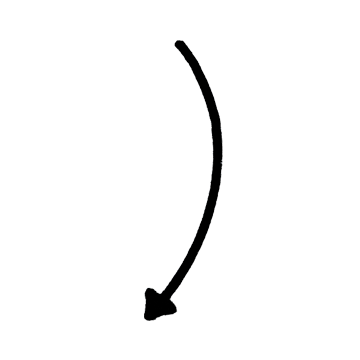
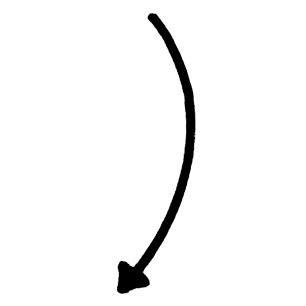
final adjustments

Changed region(s): [[0.3824, 0.0294, 0.6471, 0.9706]]

diff --git a/jv/llsf.html b/jv/llsf.html
@@ -27,7 +27,7 @@
 			<div id="Project" class="project">
 				<div class="width-container">
 					<div class="row">
-						<div class="img-container">
+						<div class="img-container more-padding">
 							<img src="images/LLSF-ph.jpg">
 						</div>
 						<div class="text text-400">
@@ -38,13 +38,11 @@
 						</div>
 					</div>
 					<div class="row">
-						<div class="column">
-							<div class="text text-400">
-								<h2>Posters</h2>
-								<p>In order to further develop the DIY and “punk” elements of the brand, posters were chosen as the best outlet to portray the importance of texture and media in the project. </p>
-								<div class="img-container" style="padding-left:0px;padding-right:0px;">
-									<img style="" src="images/llsf/LLSF-Painted.png" alt="">
-								</div>
+						<div class="text text-400">
+							<h2>Posters</h2>
+							<p>In order to further develop the DIY and “punk” elements of the brand, posters were chosen as the best outlet to portray the importance of texture and media in the project. </p>
+							<div class="img-container" style="padding-left:0px;padding-right:0px;">
+								<img style="" src="images/llsf/LLSF-Painted.png" alt="">
 							</div>
 						</div>
 						<div class="img-container">
@@ -90,8 +88,10 @@
 						<div class="text-middle text-300">
 							<p>They translate the DIY aspect of independent film making, while tying it back to the punk nature of the event.</p>
 						</div>
-						<img class="mobile" src="images/llsf/Sketch-14.png" style="width:100%;">
 						<img class="arrow" src="images/Arrow3.png" alt="">
+						<div class="img-container more-padding">
+							<img class="mobile" src="images/llsf/Sketch-14.png" style="width:100%;">
+						</div>
 					</div>
 					<div class="row-noMargin">
 						<div class="text-middle text-300">

diff --git a/jv/redblack.html b/jv/redblack.html
@@ -11,6 +11,11 @@
 				box-sizing: border-box;
 				padding: 40px;
 			}
+			@media only screen and (max-width: 1000px) {
+				.rbg{
+					padding: 10px 4px;
+				}
+			}
 		</style>
 	</head>
 	<body>
@@ -41,7 +46,7 @@
 							<p>As Assistant Design Editor at the student managed Red&Black Newspaper, I had the opportunity to immerse myself in editorial design and constantly produce layouts, illustrations, data visualization, and info-graphics that were printed in 10,000 units every week.</p>
 							<br>
 							<p>The goal of every project was to, thought design, enhance the meaning and message of a story, and make them more engaging to the reader.</p>
-							<div class="img-container" style="padding-left:0px;padding-right:0px;margin-top:40px;">
+							<div class="img-container mobile-none" style="padding-left:0px;padding-right:0px;margin-top:40px;">
 								<img style="" src="images/redblack/G-Day-Handwritten.png" alt="">
 							</div>
 						</div>
@@ -53,7 +58,7 @@
 								<h2>Illustrations/ Info-graphics</h2>
 								<p>Illustrations are key in order to bring stories to life. They are eye catching and carry ideas that can be understood very quickly, making them a valuable asset in editorial design and journalism.</p>
 							</div>
-							<div class="img-container" style="padding-left:0px;padding-right:0px;flex: 0 0 auto;">
+							<div class="img-container mobile-none" style="padding-left:0px;padding-right:0px;flex: 0 0 auto;">
 								<img style="" src="images/redblack/UGAvsAU.jpg" alt="">
 							</div>
 						</div>

diff --git a/jv/index.html b/jv/index.html
@@ -176,11 +176,15 @@
 				}
 				.inner-ia{
 					transform: translate(0,0)!important;
+					justify-content: center;
+					align-items: center;
+					flex-direction: column;
+					display: flex;
 				}
 				.img-cover-text{
 					color: inherit;
 					text-align: center;
-					font-size: 16px;
+					font-size: 12px;
 					font-weight: 700;
 					max-width: 140px;
 					line-height: normal;
@@ -190,6 +194,9 @@
 					height: 120px;
 					width: 120px;
 					padding: 5px;
+				}
+				.sq-text{
+					margin-top: 1px;
 				}
 			}
 		</style>
@@ -209,8 +216,8 @@
 								</div>
 							</div>
 							<div class="icons">
-								<a href="#"><img class="sm-icon" src="images/inin.svg" alt=""></a>
-								<a href="#"><img class="sm-icon" src="images/ln.svg" alt=""></a>
+								<a href="https://www.instagram.com/the_creative_peacock/"><img class="sm-icon" src="images/inin.svg" alt=""></a>
+								<a href="https://www.linkedin.com/in/joao-v-vidal/"><img class="sm-icon" src="images/ln.svg" alt=""></a>
 							</div>
 						</div>
 					</div>

diff --git a/jv/dti.html b/jv/dti.html
@@ -39,7 +39,7 @@
 						<div class="img-container mobile">
 								<img src="images/dti/stickFiguresBall.png" alt="">
 						</div>
-					</div>-
+					</div>
 
 					<div class="row" style="margin-bottom:60px;">
 						<div class="text text-400">
@@ -156,7 +156,7 @@
 							<div class="text-middle text-300">
 								<p>The photo gave me a story that the logo could tell, and become a compeling factor of the brand.</p>
 							</div>
-							<div class="img-container">
+							<div class="img-container more-padding">
 								<img src="images/dti/stickFigures.png" alt="">
 							</div>
 							<div class="text-middle text-300">
@@ -164,7 +164,7 @@
 							</div>
 						</div>
 						<div class="row">
-							<img class="arrow" src="images/Arrow1.png" alt="">
+							<img class="arrow" src="images/Arrow5.png" alt="">
 						</div>
 						<div class="row">
 							<div class="img-container">

diff --git a/jv/liet.html b/jv/liet.html
@@ -33,7 +33,7 @@
 					</div>
 					<div class="row">
 						<div class="img-container">
-							<img src="images/liet/liet.jpg" alt="">
+							<img src="images/liet/liet.png" alt="">
 						</div>
 						<div class="text text-400">
 							<h2>Overview</h2>
@@ -75,7 +75,7 @@
 							<img class="mobile" src="images/liet/IMG_1022-noarrow.png" alt="">
 						</div>
 					</div>
-					<div class="row">
+					<div class="row mobile-none">
 						<div class="text text-300">
 							<br><br class="mobile-none"><br class="mobile-none">
 							<p>French was written in smooth hand-written cursive.</p>

diff --git a/jv/master.css b/jv/master.css
@@ -219,7 +219,10 @@ img{
 	left: 20px;
 }
 
-@media only screen and (max-width: 1250px) {
+@media only screen and (max-width: 1000px) {
+	.img-container.more-padding{
+		padding-bottom: 40px;
+	}
 	.back-arrow{
 		max-width:100px;
 		position: relative;
